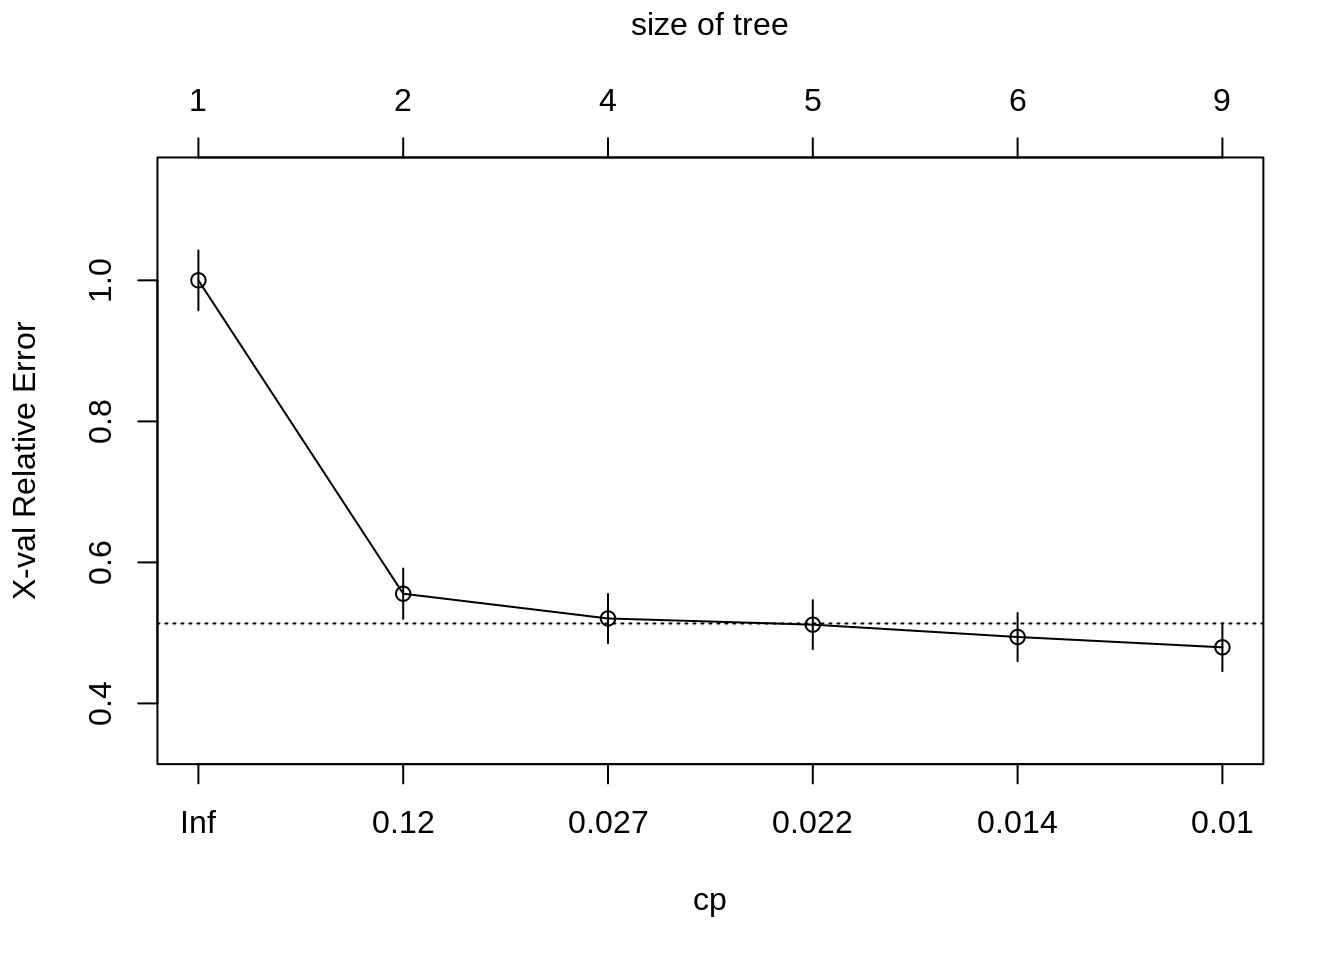
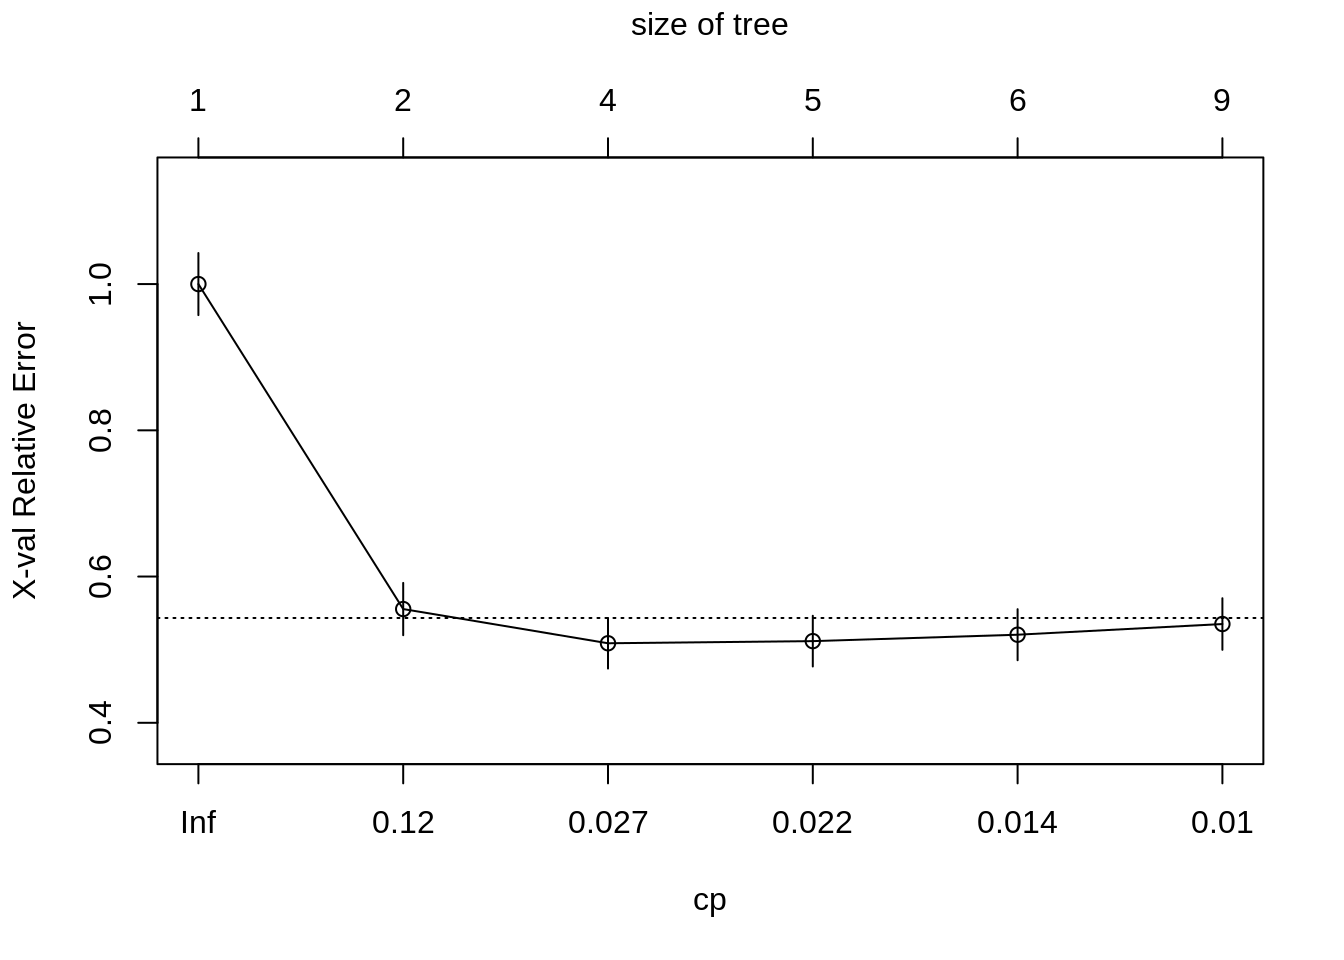
Deploy lebebr01/stat_thinking to github.com/lebebr01/stat_thinking.git:master

diff --git a/docs/classification.html b/docs/classification.html
@@ -324,10 +324,10 @@ titanic &lt;-<span class="st"> </span><span class="kw">bind_rows</span>(titanic_
 ##         CP nsplit rel error  xerror     xstd
 ## 1 0.444444      0   1.00000 1.00000 0.042446
 ## 2 0.030702      1   0.55556 0.55556 0.035750
-## 3 0.023392      3   0.49415 0.52047 0.034897
+## 3 0.023392      3   0.49415 0.50877 0.034599
 ## 4 0.020468      4   0.47076 0.51170 0.034675
-## 5 0.010234      5   0.45029 0.49415 0.034217
-## 6 0.010000      8   0.41813 0.47953 0.033824</code></pre>
+## 5 0.010234      5   0.45029 0.52047 0.034897
+## 6 0.010000      8   0.41813 0.53509 0.035260</code></pre>
 <div class="sourceCode"><pre class="sourceCode r"><code class="sourceCode r"><span class="kw">plotcp</span>(class_tree)</code></pre></div>
 <p><img src="05-classification_files/figure-html/unnamed-chunk-6-1.png" width="672" /></p>
 <div class="sourceCode"><pre class="sourceCode r"><code class="sourceCode r">prune_class_tree &lt;-<span class="st"> </span><span class="kw">prune</span>(class_tree, <span class="dt">cp =</span> .<span class="dv">02</span>)

diff --git a/docs/05-classification.md b/docs/05-classification.md
@@ -249,10 +249,10 @@ printcp(class_tree)
 ##         CP nsplit rel error  xerror     xstd
 ## 1 0.444444      0   1.00000 1.00000 0.042446
 ## 2 0.030702      1   0.55556 0.55556 0.035750
-## 3 0.023392      3   0.49415 0.52047 0.034897
+## 3 0.023392      3   0.49415 0.50877 0.034599
 ## 4 0.020468      4   0.47076 0.51170 0.034675
-## 5 0.010234      5   0.45029 0.49415 0.034217
-## 6 0.010000      8   0.41813 0.47953 0.033824
+## 5 0.010234      5   0.45029 0.52047 0.034897
+## 6 0.010000      8   0.41813 0.53509 0.035260
 ```
 
 ```r
